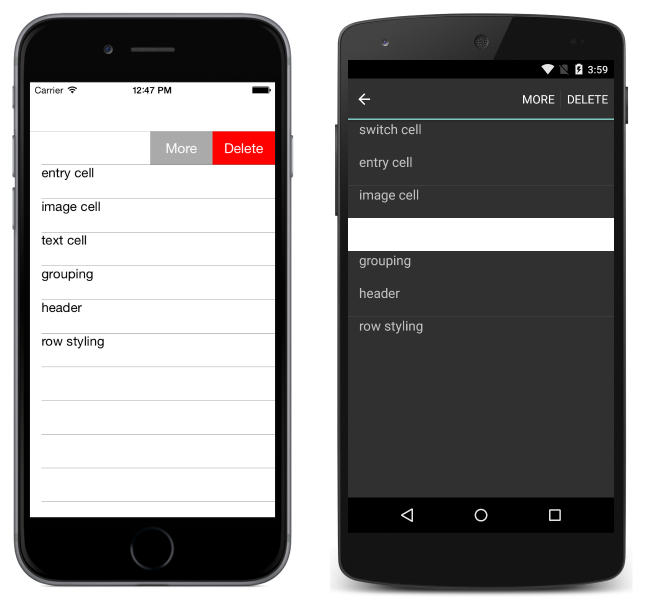
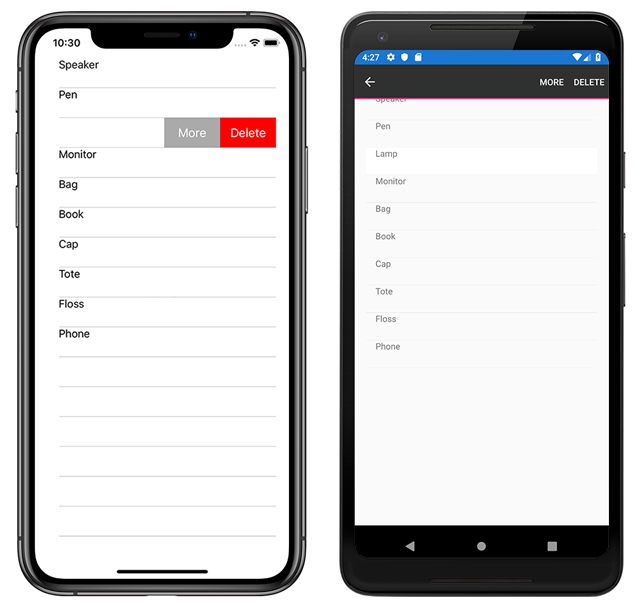
Jusjohns listview (#1196)
* Updated date and description

* Updated Use Cases

* Fetched sample and updated screenshots

* Replaced screenshot with screenshot from referenced app

* Updated context menu screenshots

* Removed screenshot that didn't add value

* Added cropped versions of screenshots

* Updated screenshots to used cropped versions and added intros

* Sentence casing

* Added backticks to code items and improved bullet usage

* Some acronlinx and final pass cleanup

* PR feedback changes

* Fixed manual named-anchor links to use automated ones

diff --git a/docs/xamarin-forms/user-interface/listview/index.md b/docs/xamarin-forms/user-interface/listview/index.md
@@ -1,12 +1,12 @@
 ---
 title: "Xamarin.Forms ListView"
-description: "This guide introduces the Xamarin.Forms ListView, which can be used to present data in beautiful, interactive lists."
+description: "This guide introduces the Xamarin.Forms ListView, which can be used to present data in interactive lists."
 ms.prod: xamarin
 ms.assetid: FEFDF7E0-720F-4BD1-863F-4477226AA695
 ms.technology: xamarin-forms
 author: davidbritch
 ms.author: dabritch
-ms.date: 12/14/2015
+ms.date: 09/04/2019
 ---
 
 # Xamarin.Forms ListView
@@ -18,44 +18,60 @@ ms.date: 12/14/2015
 > [!IMPORTANT]
 > [`CollectionView`](xref:Xamarin.Forms.CollectionView) is a view for presenting lists of data using different layout specifications. It aims to provide a more flexible, and performant alternative to [`ListView`](xref:Xamarin.Forms.ListView). For more information, see [Xamarin.Forms CollectionView](~/xamarin-forms/user-interface/collectionview/index.md).
 
-## Use Cases
+## Use cases
 
-Make sure ListView is the right control for your needs. ListView can be used in any situation where you are displaying scrollable lists of data. ListViews support context actions and data binding.
+A `ListView` control can be used in any situation where you're displaying scrollable lists of data. The `ListView` class supports context actions and data binding.
 
-ListView should not be confused with [TableView](~/xamarin-forms/user-interface/tableview.md). The TableView control is a better option whenever you have a non-bound list of options or data. For example, the iOS settings app, which has a mostly predefined set of options, is better suited to use TableView than ListView.
+The `ListView` control shouldn't be confused with the [`TableView`](~/xamarin-forms/user-interface/tableview.md) control. The `TableView` control is a better option whenever you have a non-bound list of options or data because it allows predefined options to be specified in XAML. For example, the iOS settings app, which has a mostly predefined set of options, is better suited to use a `TableView` than a `ListView`.
 
-Also note that a ListView is best suited for homogeneous data &ndash; that is, all data should be of the same type. This is because only one type of cell can be used for each row in the list. TableViews can support multiple cell types, so they are a better option when you need to mix views.
+The `ListView` class doesn't support defining list items in XAML, you must use the `ItemsSource` property or data binding with an `ItemTemplate` to define items in the list.
+
+A `ListView` is best suited for a collections consisting of a single data type. This requirement is because only one type of cell can be used for each row in the list. The `TableView` control can support multiple cell types, so it is a better option when you need to display multiple data types.
+
+For more information about binding data to a `ListView` instance, see [ListView data sources](~/xamarin-forms/user-interface/listview/data-and-databinding.md).
 
 ## Components
-ListView has a number of components available to exercise the native functionality of each platform. Each of these components is described below:
+The `ListView` control has a number of components available to exercise the native functionality of each platform. These components are defined in the following sections.
 
-- **[Headers and Footers](customizing-list-appearance.md#Headers_and_Footers)** &ndash; Text or view to display at the beginning and end of a list, separate from list's data. Headers and footers can be bound to a data source independently from the ListView's data source.
-- **[Groups](customizing-list-appearance.md#Grouping)** &ndash; Data in a ListView can be grouped for easier navigation. Groups are typically data bound:
+### [Headers and footers](customizing-list-appearance.md#headers-and-footers)
 
-![](images/grouping-depth.png "ListView with Grouped Data")
+Header and footer components display at the beginning and end of a list, separate from list's data. Headers and footers can be bound to a separate data source from the ListView's data source.
 
-- **[Cells](customizing-cell-appearance.md)** &ndash; Data in a ListView is presented in cells. Each cell corresponds to a row of data. There are built-in cells to choose from, or you can define your own custom cell. Both built-in and custom cells can be used/defined in XAML or code.
-  - **[Built-in](customizing-cell-appearance.md#Built_in_Cells)** &ndash; Built in cells, especially TextCell and ImageCell, can be great for performance, since they correspond to native controls on each platform.
-    - **[TextCell](customizing-cell-appearance.md#TextCell)** &ndash; Displays a string of text, optionally with detail text. Detail text is rendered as a second line in a smaller font with an accent color.
-    - **[ImageCell](customizing-cell-appearance.md#ImageCell)** &ndash; Displays an image with text. Appears as a TextCell with an image on the left.
-  - **[Custom Cells](customizing-cell-appearance.md#customcells)** &ndash; Custom cells are great when you need to present complex data. For example, a custom view could be used to present a list of songs, including album and artist:
+### [Groups](customizing-list-appearance.md#grouping)
 
-![](images/image-cell-default.png "ListView with ImageCells")
+Data in a `ListView` can be grouped for easier navigation. Groups are typically data bound. The following screenshot shows a `ListView` with grouped data:
 
-To learn more about customizing cells in a ListView, see [Customizing ListView Cell Appearance](customizing-cell-appearance.md).
+[!["Grouped data in a ListView"](images/grouping-depth-cropped.png)](images/grouping-depth.png#lightbox "Grouped data in a ListView")
+
+### [Cells](customizing-cell-appearance.md)
+
+Data items in a `ListView` are called cells. Each cell corresponds to a row of data. There are built-in cells to choose from, or you can define your own custom cell. Both built-in and custom cells can be used/defined in XAML or code.
+
+- [Built-in cells](customizing-cell-appearance.md#built-in-cells), such as the `TextCell` and `ImageCell`, correspond to native controls and are especially performant.
+  - A [`TextCell`](customizing-cell-appearance.md#textcell) displays a string of text, optionally with detail text. Detail text is rendered as a second line in a smaller font with an accent color.
+  - An [`ImageCell`](customizing-cell-appearance.md#imagecell) displays an image with text. Appears as a `TextCell` with an image on the left.
+- [Custom cells](customizing-cell-appearance.md#customcells) are used to present complex data. For example, a custom cell could be used to present a list of songs that includes the album and artist.
+
+The following screenshot shows a `ListView` with ImageCell items:
+
+[!["ImageCell items in a ListView"](images/image-cell-default-cropped.png)](images/image-cell-default.png#lightbox "ImageCell items in a ListView")
+
+To learn more about customizing cells in a `ListView`, see [Customizing ListView Cell Appearance](customizing-cell-appearance.md).
 
 ## Functionality
-ListView supports a number of interaction styles, including:
+The `ListView` class supports a number of interaction styles.
 
-- **[Pull-to-Refresh](interactivity.md#Pull_to_Refresh)** &ndash; ListView supports pull-to-refresh on each platform.
-- **[Context Actions](interactivity.md#Context_Actions)** &ndash; ListView supports taking action on individual items in a list. For example, you can implement swipe-to-action on iOS, or long-tap actions on Android.
-- **[Selection](interactivity.md#selectiontaps)** &ndash; You can listen for selections and deselections to take action when a row is tapped.
+- [Pull-to-refresh](interactivity.md#pull-to-refresh) allows the user to pull the `ListView` down to refresh the contents.
+- [Context actions](interactivity.md#context-actions) allow the developer to specify custom actions on individual list items. For example, you can implement swipe-to-action on iOS, or long-tap actions on Android.
+- [Selection](interactivity.md#selectiontaps) allow the developer to attach functionality to selection and deselection events on list items.
 
-![](images/context-default.png "ListView with Context Actions")
+The following screenshot shows a `ListView` with context actions:
 
-To learn more about the interactivity features of ListView, see [Actions & Interactivity with ListView](interactivity.md).
+[!["Context actions in a ListView"](images/context-default-cropped.png)](images/context-default.png#lightbox "Context actions in a ListView")
 
-## Related Links
+To learn more about the interactivity features of `ListView`, see [Actions & Interactivity with ListView](interactivity.md).
+
+## Related links
 
 - [Working With ListView (sample)](https://docs.microsoft.com/samples/xamarin/xamarin-forms-samples/workingwithlistview)
 - [Two Way Binding (sample)](https://docs.microsoft.com/samples/xamarin/xamarin-forms-samples/userinterface-listview-switchentrytwobinding)
